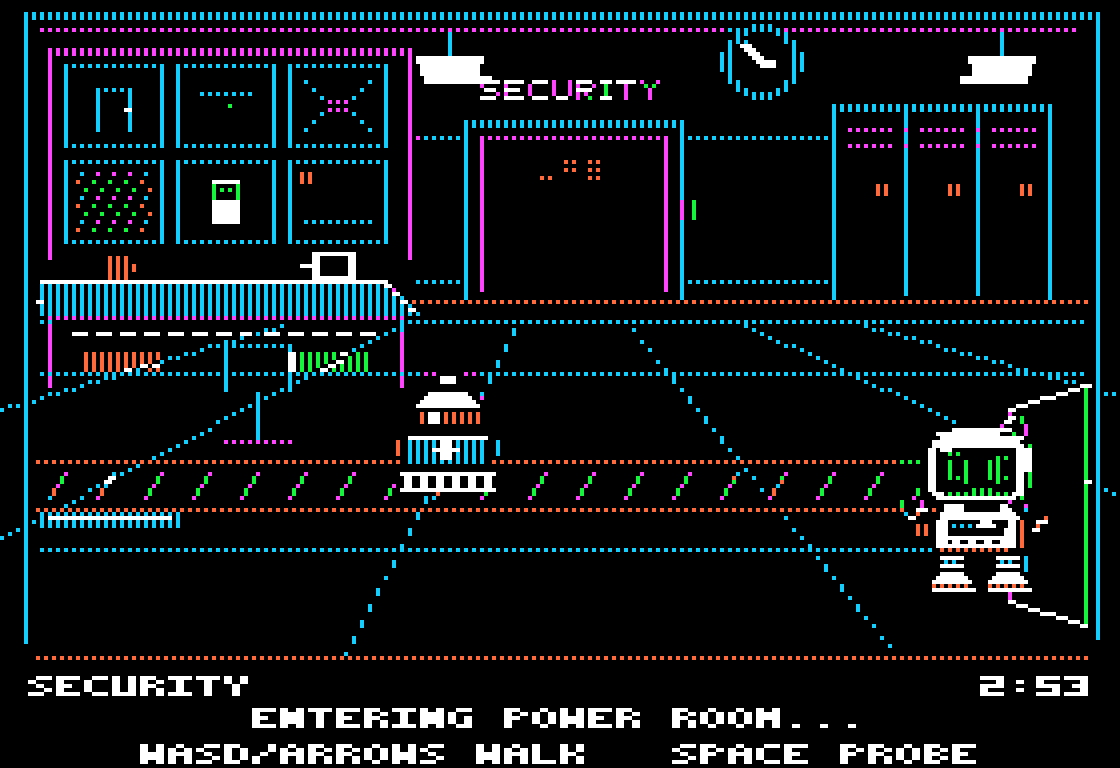
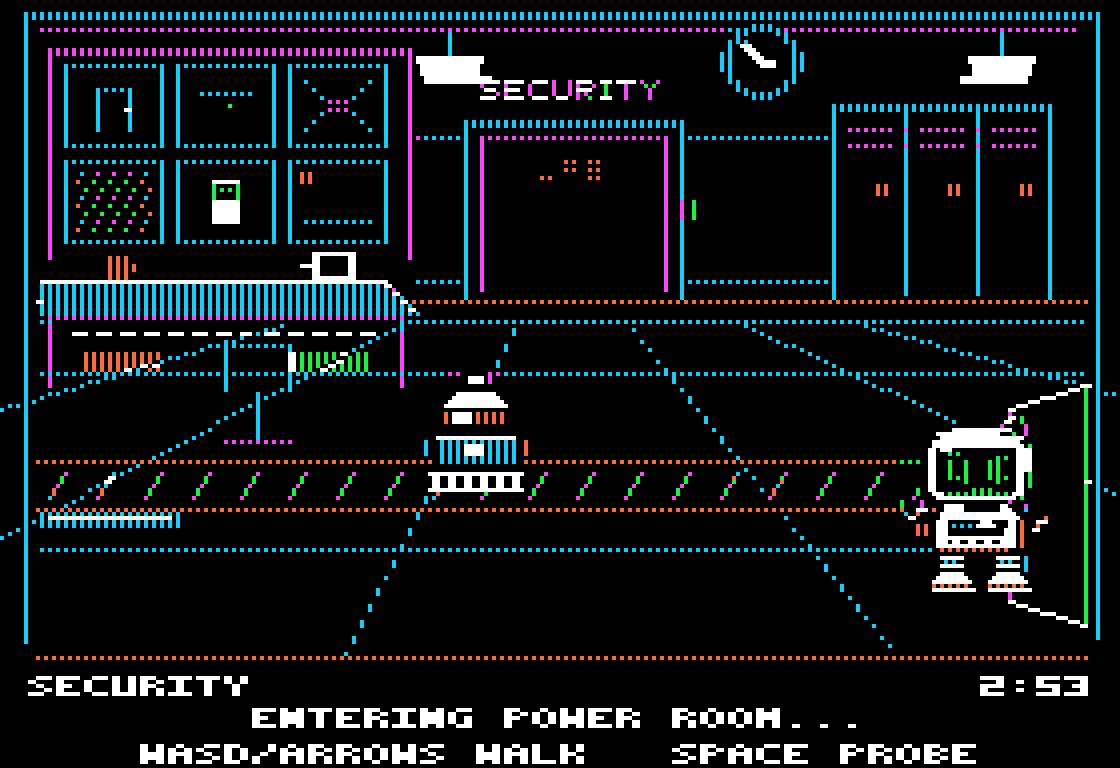
G-Bot SFX: README controls and sound table, memory map; screenshots from the passing IIe/II+ runs

Changed region(s): [[0.3438, 0.4688, 0.4688, 0.6562]]

diff --git a/Projects/GBotAdventure/README.md b/Projects/GBotAdventure/README.md
@@ -145,6 +145,34 @@ while playing: each room change reads that room from the disk.
 | R | Reconnect the loose lead / fit the fuse / start tuning and lock a phase at the lab console |
 | A / D (while tuning) | Move the phase cursor left / right (G-Bot stays put) |
 | Escape | Cancel inspection or tuning (walking away from an inspection also cancels) |
+| M | Sound effects on / off (shows **SOUND ON** / **SOUND OFF** briefly; S is taken by walking) |
+
+### Sound
+
+Short speaker effects (sound starts **on**; **M** toggles it, and off silences
+everything, the door chirp included). Most play inside the main loop's existing
+~3,000-cycle end-of-frame throttle: one ~3 ms tone burst per frame in place of
+the old idle wait, so the frame rate does not change. The few longer jingles
+play only where the game already pauses.
+
+| Effect | Trigger | Length |
+| --- | --- | --- |
+| Scanning warble | Space (probe) | 5 frames (~3 ms each) |
+| Low buzz | a failed or not-applicable action: NO CONTACT, MOVE CLOSER, NO POWER, TOO DARK, sealed doors, empty locker, NOTHING TO PROBE, lab door locked, guard catch, OUT OF PHASE, tuning cancelled | 4 frames |
+| Chime | FOUND A FUSE! | 4 frames |
+| Click | each A/D tuning step; sound back on | 1 frame |
+| Robotic beep | the guard rebooting (first entry to security) | 7 frames |
+| Chord | LOCKED! NEXT PHASE... | 5 frames |
+| Rising jingle | ...AND THE LAB DOOR CLICKS OPEN | 9 frames |
+| Electric crackle | the scientist flickering in (at most every ~12 s) | 4 frames |
+| Footstep tick | every 8th frame while walking (2 clicks) | a few cycles |
+| Rising jingle | the workbench repair completing (G-Bot is still holding) | ~60 ms, blocking |
+| Power-on hum | the fuse fitted (inside the room's reload) | ~54 ms, blocking |
+| Hum + chord | the console coming into phase as she starts to talk | ~69 ms, blocking |
+| Door chirp | every door (as before) | ~22 ms, during the door |
+
+The effects engine is `src/sfx.s`; which message plays which sound is
+generated (`MSG_SFX` in `tools/gen_workshop.py`).
 
 The Apple II keyboard reports **key events, not independent held-key states**.
 A tap starts a short, bounded four-tick walk (up to eight pixels); the robot then
@@ -430,10 +458,11 @@ required native build inputs, not modern images loaded by the game.
   the loader, which maps the ROM back in (`$C082`) and continues through the
   ROM's own vector (the game runs with interrupts off). Only the stamp
   interpreter switches to bank 1, and back, while it draws a room.
-  - bank 2 `$D000–$DE6E`: engine code (free to `$DFFF`: **401 bytes**);
+  - bank 2 `$D000–$DEAB`: engine code (free to `$DFFF`: **340 bytes**);
   - `$E000–$EC7F`: lookup tables and the 47-glyph status font;
-  - `$EC80–$EFF3`: the stamp interpreter (free to `$EFFF`: 12 bytes);
-  - `$F000–$FFF9`: **free, 4,090 bytes**;
+  - `$EC80–$EFF3`: the stamp interpreter;
+  - `$EFF4–$F1B9`: sound effects engine and tables (454 bytes);
+  - `$F1BA–$FFF9`: **free, 3,648 bytes**;
   - bank 1 `$D000–$DFFF`: the stamp pool (lit power room, the lab's overflow;
     **428 bytes** free).
 
@@ -443,8 +472,8 @@ required native build inputs, not modern images loaded by the game.
   repair/status changes update it in RAM).
 - `$A000–$BF47`: 14 original 42 × 44 frames (8,008 bytes).
   `$BF48–$BFFF`: 184 spare bytes.
-- **`$6000–$7FFF` (8,192 bytes) is free main RAM.** Free RAM in all: **13,307
-  bytes** (8,192 at `$6000`, 401 + 12 + 4,090 in the language card, 428 in
+- **`$6000–$7FFF` (8,192 bytes) is free main RAM.** Free RAM in all: **12,792
+  bytes** (8,192 at `$6000`, 340 + 3,648 in the language card, 428 in
   the pool, 184 at `$BF48`). Before the language card the code area had 421
   bytes free.
 - Disk: track 0 boot; **1–3 code and tables, 4 stamp pool, 5–6 G-Bot's frames,
